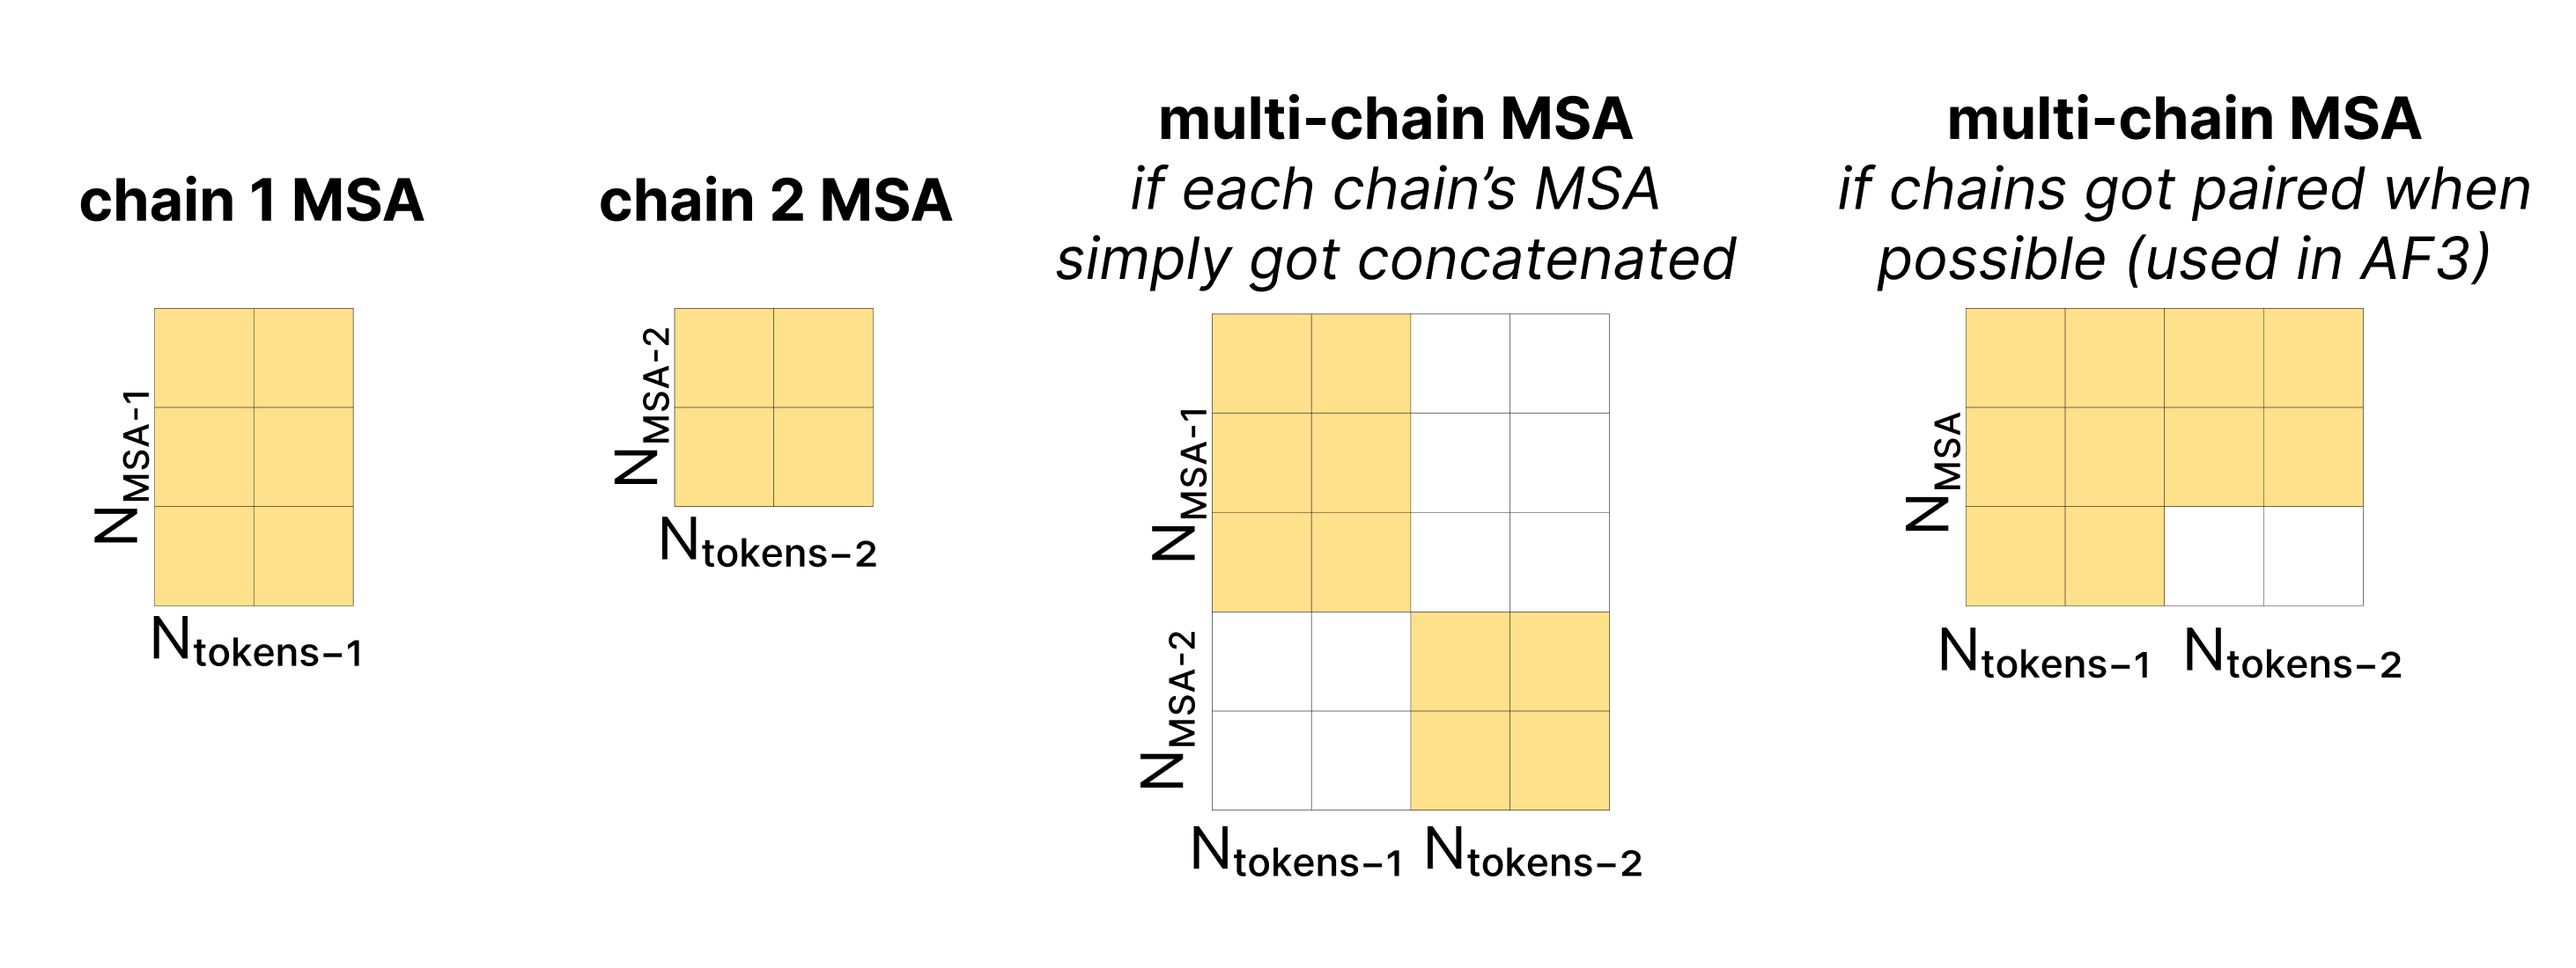
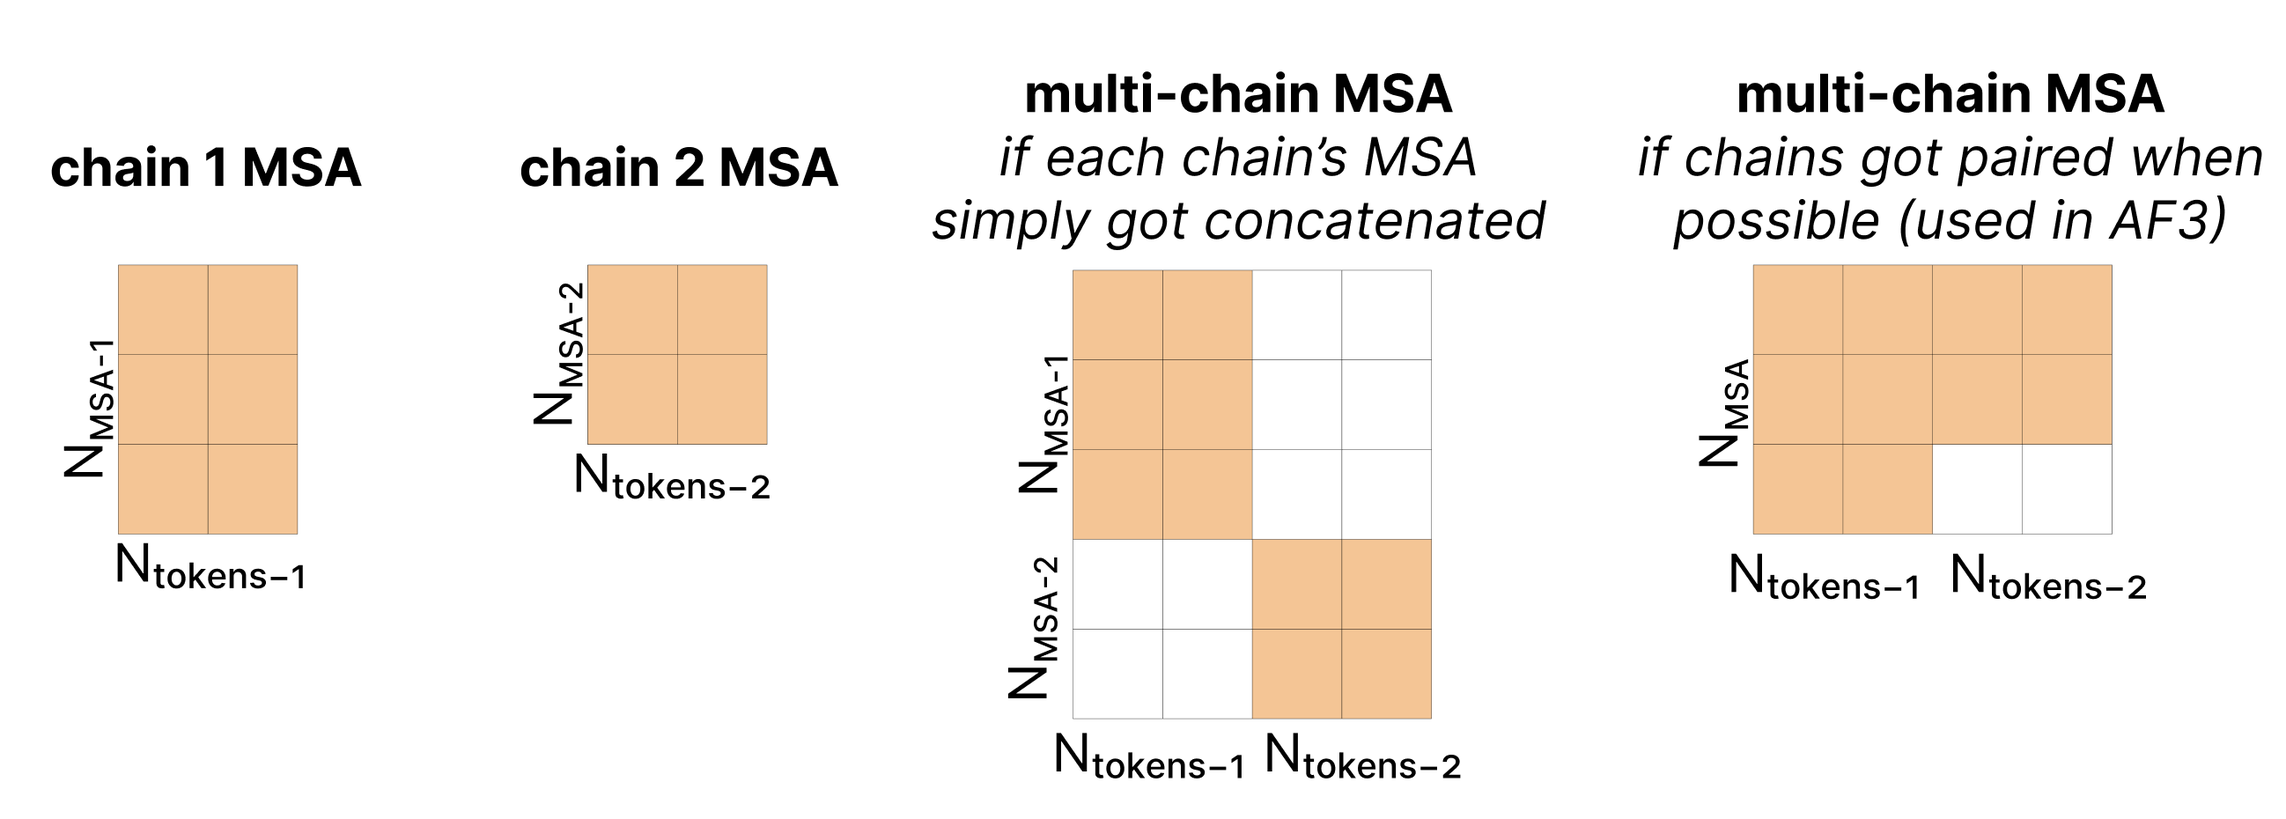
fix multi chain msa coloring and some text coloring

diff --git a/_posts/2024-07-09-the-illustrated-alphafold.md b/_posts/2024-07-09-the-illustrated-alphafold.md
@@ -115,7 +115,7 @@ Similarly, if any of these proteins have known structures, those are also likely
 First, a genetic search is done searching for any protein or RNA chains that resemble any input protein or RNA chains. This does not involve any training and relies upon existing Hidden Markov Model (HMM) based methods<d-footnote>Specifically, they use jackhmmer, HHBlits, and nhmmer</d-footnote> to scan multiple protein databases and RNA databases for relevant hits. Then these sequences are aligned to each other to construct an MSA with N<sub>MSA</sub> sequences. As the computational complexity of the model scales with N<sub>MSA</sub> they limit this to N<sub>MSA</sub> < 2<sup>14</sup>. Typically, MSAs are constructed from individual protein chains but, as described in <a href="https://www.biorxiv.org/content/10.1101/2021.10.04.463034v2.full.pdf">AF-multimer</a>, instead of just concatenating the separate MSAs together into a block diagonal matrix, certain chains from the same species can be 'paired' as described <a href="https://www.biorxiv.org/content/10.1101/240754v3.full.pdf">here</a>. This way, the MSA does not have to be as large and sparse, and evolutionary information can be learned about relationships between chains.
 
 <div class="l-body">
-  {% include figure.liquid path="assets/img/af3_post/multi_chain_msa.png" class="img-fluid rounded z-depth-1" zoomable=true %}
+  {% include figure.liquid path="assets/img/af3_post/multi_chain_MSA.png" class="img-fluid rounded z-depth-1" zoomable=true %}
 </div>
 
 Then, for each protein chain, they use another HMM-based method (hmmsearch) to find sequences in the Protein Data Bank (PDB) that resemble the constructed MSA. The highest quality structures are selected and up to 4 of these are sampled to be included as "templates".
@@ -126,7 +126,7 @@ The only new part of these retrieval steps compared to AF-multimer is the fact t
 
 **How do we represent these templates?**
 
-From our template search, we have a 3D structure for each of our templates and information about which tokens are in which chains. First, the euclidean distances between all pairs of tokens in a given template are calculated. For tokens associated with multiple atoms, a representative "center atom" is used to calculate distances. This would be the C<sub>ɑ</sub> atom for amino acids and C<sup>1</sup>' atom for standard nucleotides.
+From our template search, we have a 3D structure for each of our templates and information about which tokens are in which chains. First, the euclidean distances between all pairs of tokens in a given template are calculated. For tokens associated with multiple atoms, a representative <span style="color: #0094FF">"center atom"</span> is used to calculate distances. This would be the <span style="color: #0094FF">C<sub>ɑ</sub></span> atom for amino acids and <span style="color: #0094FF">C<sup>1</sup>'</span> atom for standard nucleotides.
 
 <div class="l-body">
   {% include figure.liquid path="assets/img/af3_post/center_atoms.png" class="img-fluid rounded z-depth-1" zoomable=true %} <div class="caption">Highlighting <span style="color: #0094FF">"center atoms"</span> in single-token building blocks</div>
@@ -397,11 +397,11 @@ Conditional Diffusion lets the model 'condition' these de-noising predictions on
 
 As a result, the final generation is not just a random example that resembles the training data distribution, but should specifically match the information represented by this conditioning vector.
 
-<div class="l-gutter">
-  {% include figure.liquid path="assets/img/af3_post/coordinates_for_diffusion.png" class="img-fluid rounded z-depth-1" zoomable=true %} Matrix with coordinates to get de-noised.
-</div>
 
 With AF3, the data we learn to de-noise is a matrix **<span style="color: #F4DD65;">x</span>** with the x,y,z coordinates of all the atoms in our sequences. During training, we add Gaussian noise to these coordinates until they are effectively fully random. Then at inference time, we start with random coordinates. At each time step, we first randomly rotate and translate our entire predicted complex. This data-augmentation teaches the model that any rotation and translation of our complex is equally valid, and replaces the much more complicated Invariant Point Attention used in AF2. <d-footnote>AF2 had developed a complicated architecture called Invariant Point Attention meant to enforce equivariance to translations and rotations. This led to a vigorous debate over the importance of IPA in AF2's success. In AF3, this is dropped in favor of a much simpler approach: applying random rotations and translations as data-augmentations to help the model learn such equivariances naturally. So here we simply randomly rotate all atoms' coordinates around the center of our current generation (the mean over all atoms' coordinates), and randomly sample a translation in each dimension (x, y, and z) from a N(0,1) Gaussian. It appears from the algorithm that the translation is universal, that is the same translation is applied to every atom in our current generation. This type of data augmentation was popularize with CNNs but in the past few years, equivariant architectures like IPA have been considered an more efficient and elegant approach to solve the same problem. Thus, when AF3 replaced equivariant attention with data-augmentation, it sparked a lot of internet discussions.</d-footnote> We then add a small amount of noise to the coordinates to encourage more heterogeneous generations.<d-footnote>It benefits us for the model to generate several slightly different variations. At inference time, we can score each using our confidence head, and return only the generation with the highest score.</d-footnote> Finally, we predict a de-noising step using the Diffusion Module. We cover this module in more detail below:
+<div class="l-gutter">
+  {% include figure.liquid path="assets/img/af3_post/coordinates_for_diffusion.png" class="img-fluid rounded z-depth-1" zoomable=true %} Data (coordinates) to get de-noised
+</div>
 
 ## Diffusion Module
 <div class="l-gutter">
